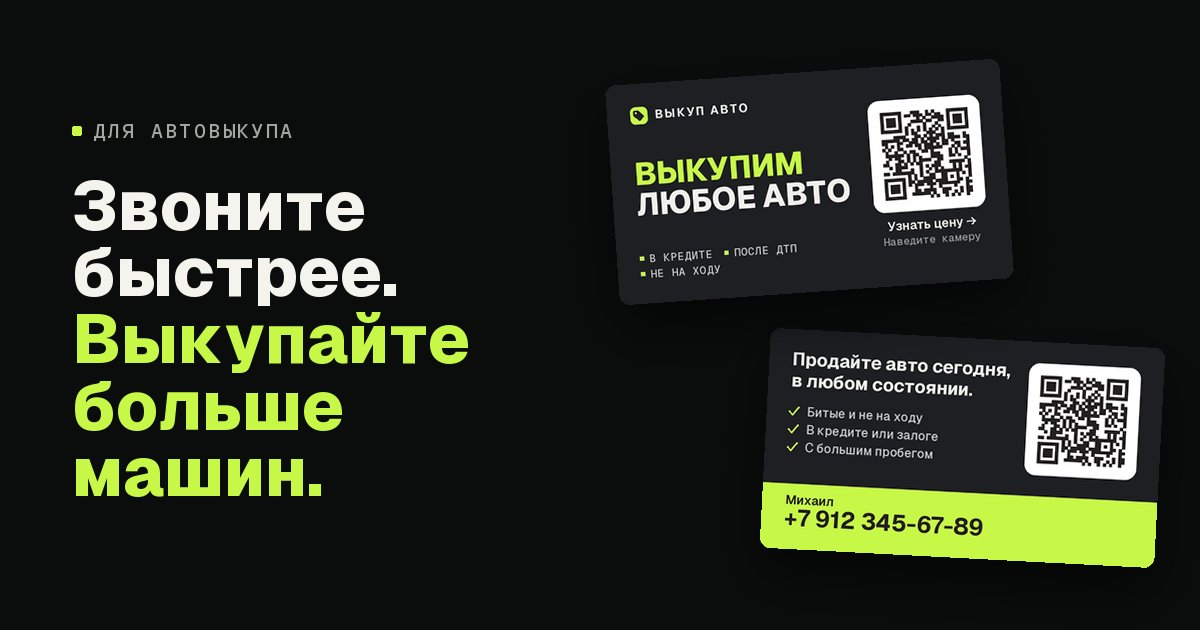
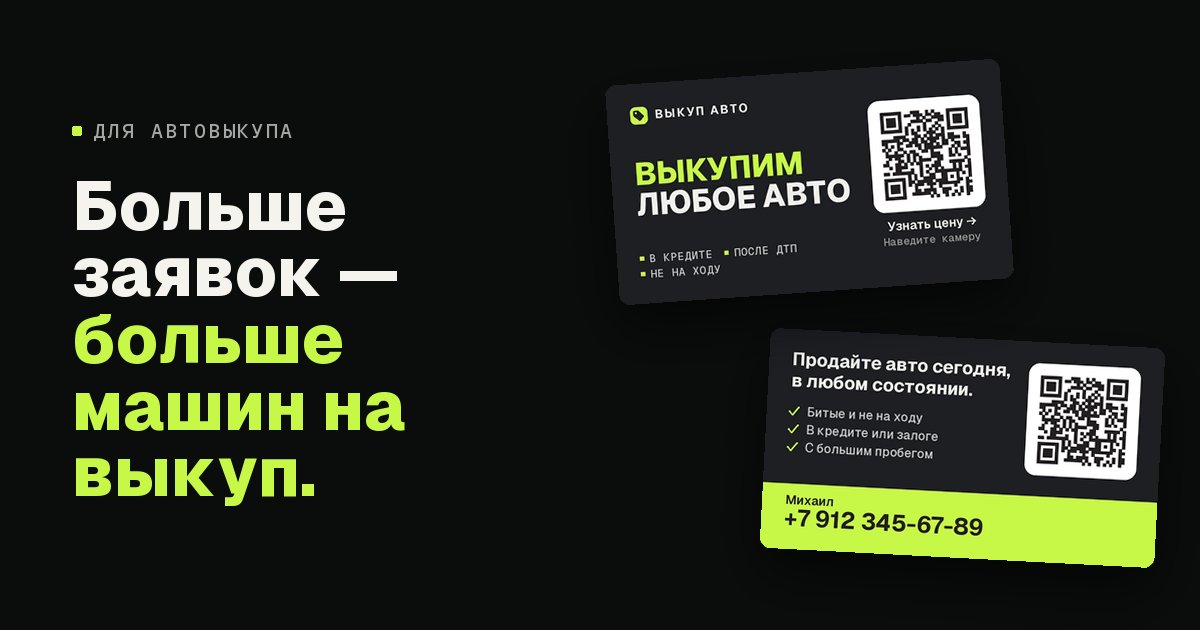
Update the demo

Changed region(s): [[0.0617, 0.3016, 0.4008, 0.6937], [0.0617, 0.7238, 0.2775, 0.8143]]

diff --git a/ru/index.html b/ru/index.html
@@ -5,14 +5,14 @@
   <meta name="viewport" content="width=device-width, initial-scale=1, viewport-fit=cover">
   <!-- Shared by link with one business at a time, never meant to be found. -->
   <meta name="robots" content="noindex">
-  <title>Выкуп авто · Звоните быстрее</title>
-  <meta name="description" content="Посмотрите, как это работает: продавец сканирует код или открывает ссылку и заполняет анкету, а вам приходит заявка с уведомлением на телефон.">
+  <title>Выкуп авто · Больше заявок</title>
+  <meta name="description" content="Посмотрите, как это работает: продавец сканирует код или жмёт на ссылку, заполняет анкету, а вам на телефон сразу приходит заявка.">
   <!-- The preview a messenger shows under a link. It reads the page as it is
        served, so a named link shows the headline, not the business's name. -->
   <meta property="og:type" content="website">
-  <meta property="og:title" content="Звоните быстрее. Выкупайте больше машин.">
-  <meta property="og:description" content="Посмотрите, как это работает: продавец сканирует код или открывает ссылку и заполняет анкету, а вам приходит заявка с уведомлением на телефон.">
-  <meta property="og:image" content="https://car-buyer-demo.github.io/assets/preview/ru.jpg?v=3e0f3e5339">
+  <meta property="og:title" content="Больше заявок — больше машин на выкуп.">
+  <meta property="og:description" content="Посмотрите, как это работает: продавец сканирует код или жмёт на ссылку, заполняет анкету, а вам на телефон сразу приходит заявка.">
+  <meta property="og:image" content="https://car-buyer-demo.github.io/assets/preview/ru.jpg?v=ffecbe87a3">
   <meta property="og:image:width" content="1200">
   <meta property="og:image:height" content="630">
   <meta name="twitter:card" content="summary_large_image">
@@ -132,8 +132,8 @@
     <div class="hero">
       <div>
         <div class="kicker">Для автовыкупа</div>
-        <h1>Звоните быстрее. <em>Выкупайте больше машин.</em></h1>
-        <p class="lead">Разместите QR-код на визитках, наклейках, щитах и у партнёров или добавьте ссылку в свою карточку на Яндекс Картах. Как только продавец оставит контакты, вам придёт уведомление, и вы позвоните, пока он ещё ищет покупателя.</p>
+        <h1>Больше заявок — <em>больше машин на выкуп.</em></h1>
+        <p class="lead">Продавец сканирует QR-код на визитке или наклейке и за пару минут заполняет анкету. Вам сразу приходит заявка с машиной, а следом фото, если продавец их добавил. Видно, стоит ли звонить.</p>
         <a class="button" href="#try">Попробовать ↓</a>
       </div>
       <div>
@@ -141,60 +141,60 @@
           <img class="front" id="card-front" src="../assets/card/ru/lime-front.webp" alt="Образец визитки, лицевая сторона: выкупим любое авто, с QR-кодом" width="1020" height="567">
           <img class="back" id="card-back" src="../assets/card/ru/lime-back.webp" alt="Образец визитки, обратная сторона: что выкупаем, снова QR-код и телефон" width="1020" height="567">
         </div>
-        <p class="caption">Образец визитки. На вашей будут ваше название, телефон и цвет.</p>
+        <p class="caption">Так выглядит визитка. На вашей будут ваше название, телефон и цвет.</p>
       </div>
     </div>
 
     <!-- The card is one place among many: each gets its own code or link. -->
     <section>
-      <div class="kicker">Один код — любое место</div>
-      <h2>Видно, какие места приводят продавцов.</h2>
+      <div class="kicker">Где ставить код</div>
+      <h2>Сразу видно, откуда идут продавцы.</h2>
       <ul class="places">
         <li class="place"><svg viewBox="0 0 24 24" aria-hidden="true"><rect x="3" y="8" width="18" height="12" rx="2"/><rect x="6" y="11" width="5" height="5" rx="1"/><path d="M14 12h4M14 15h3M2.5 6 15 3.5"/></svg>Визитка под дворником</li>
         <li class="place"><svg viewBox="0 0 24 24" aria-hidden="true"><path d="M2 16.5v-3.2l2.6-5.1c.3-.6.9-1 1.6-1h8.4c.6 0 1.1.3 1.5.7l3.4 4 2.4.6c.6.2 1.1.7 1.1 1.4v2.6M8.6 17h6.8"/><circle cx="6" cy="17" r="2.4"/><circle cx="18" cy="17" r="2.4"/><rect x="9.3" y="9.6" width="4" height="3.4" rx=".6"/></svg>Наклейка на вашей машине</li>
-        <li class="place"><svg viewBox="0 0 24 24" aria-hidden="true"><path d="M3 10.5 12 4l9 6.5V20H3zM7 20v-6.5h10V20M7 16.8h10"/></svg>Плакат у партнёра: СТО, эвакуатор</li>
+        <li class="place"><svg viewBox="0 0 24 24" aria-hidden="true"><path d="M3 10.5 12 4l9 6.5V20H3zM7 20v-6.5h10V20M7 16.8h10"/></svg>Плакат на СТО или у эвакуаторщика</li>
         <li class="place"><svg viewBox="0 0 24 24" aria-hidden="true"><rect x="3.5" y="3.5" width="17" height="9" rx="1.5"/><path d="M12 12.5V21M8.5 21h7M7 7h6M7 9.5h9"/></svg>Щит или баннер</li>
         <li class="place"><svg viewBox="0 0 24 24" aria-hidden="true"><path d="M12 21s-6.5-5.6-6.5-11a6.5 6.5 0 0 1 13 0c0 5.4-6.5 11-6.5 11z"/><circle cx="12" cy="10" r="2.3"/></svg>Ссылка в карточке на Яндекс Картах</li>
         <li class="place"><svg viewBox="0 0 24 24" aria-hidden="true"><path d="M4 4.5h16a1 1 0 0 1 1 1V16a1 1 0 0 1-1 1h-9l-4.5 3.5V17H4a1 1 0 0 1-1-1V5.5a1 1 0 0 1 1-1zM7.5 9.5h9M7.5 12.5h5.5"/></svg>Ссылка в соцсетях и местных группах</li>
       </ul>
-      <p class="sub">У каждого места свой код или ссылка, и приложение показывает, какое место приносит машины.</p>
+      <p class="sub">У каждого места свой код или ссылка, так что в приложении видно, откуда реально идут машины.</p>
     </section>
 
     <section id="try">
       <div class="kicker">Попробуйте сами</div>
-      <h2>Заполните анкету и посмотрите, как придёт заявка.</h2>
-      <p class="sub">На первом экране анкета, которую видит продавец. Ответьте на вопросы так, как ответил бы он. Как только вы сохраните контакты, заявка появится во втором окне, в вашем приложении, и всплывёт уведомление. Откройте заявку, смените статус, добавьте заметку.</p>
+      <h2>Заполните анкету за продавца и посмотрите, как придёт заявка.</h2>
+      <p class="sub">На первом экране анкета, как её видит продавец. Ответьте за него. Дойдёте до имени и телефона, сохраните их, и заявка придёт на второй экран, в ваше приложение, вместе с уведомлением. Откройте её, смените статус, добавьте заметку.</p>
       <div class="flow">
         <figure class="phone">
           <div class="screen"><iframe data-src="../demo/ru/index.html?src=card" title="Анкета продавца, рабочее демо"></iframe></div>
-          <figcaption><b>Продавец</b>Отсканировал ваш код. Без приложений и регистрации.</figcaption>
+          <figcaption><b>Продавец</b>Отсканировал код. Ничего не скачивает и нигде не регистрируется.</figcaption>
         </figure>
         <figure class="phone" id="buyer">
           <div class="screen"><iframe data-src="../demo/ru/app/index.html" title="Ваше приложение, рабочее демо"></iframe></div>
-          <figcaption><b>Ваше приложение</b>Уведомление через несколько секунд, звонок в одно касание.</figcaption>
+          <figcaption><b>Ваше приложение</b>Заявка приходит за несколько секунд, звонок в одно нажатие.</figcaption>
         </figure>
       </div>
-      <p class="note">Заявки здесь выдуманные, фото машин созданы ИИ. Всё, что вы введёте, остаётся в вашем браузере.<br><button class="again" id="restart" type="button">Начать заново</button></p>
+      <p class="note">Заявки здесь выдуманные, фото машин сделал ИИ. Всё, что вы введёте, никуда не уходит из вашего браузера.<br><button class="again" id="restart" type="button">Начать заново</button></p>
     </section>
 
     <section>
       <div class="kicker">Что вы получаете</div>
       <h2>От QR-кода до звонка продавцу.</h2>
       <div class="points">
-        <div class="point"><span class="num">01</span><h3>Ваши QR-коды и ссылки</h3><p>Макет визитки в ваших цветах, готовый для любой типографии, и свой код или ссылка для каждого другого места: видно, какие места приводят машины.</p></div>
-        <div class="point"><span class="num">02</span><h3>Анкета, удобная с телефона</h3><p>Короткие шаги, без приложений и регистрации, фото прямо с телефона. Если продавца отвлекли, он продолжит с того же места: ответы неделю хранятся в его браузере.</p></div>
-        <div class="point"><span class="num">03</span><h3>Уведомление через несколько секунд</h3><p>В уведомлении машина, а ещё цена и число фото, если продавец их указал. Имя и номер продавца на экране блокировки не видны.</p></div>
-        <div class="point"><span class="num">04</span><h3>Все заявки в одном приложении</h3><p>Статусы «Новая», «В работе», «Выкуплена», «Отказ». Заметки, звонок или сообщение продавцу в одно касание и статистика по источникам заявок.</p></div>
+        <div class="point"><span class="num">01</span><h3>Ваши QR-коды и ссылки</h3><p>Макет визитки в ваших цветах: отдаёте в любую типографию и печатаете. На каждое другое место свой код или ссылка, так что видно, откуда идут машины.</p></div>
+        <div class="point"><span class="num">02</span><h3>Анкету легко заполнить с телефона</h3><p>Короткие шаги, ничего не надо скачивать и регистрироваться, фото прямо с телефона. Отвлекли продавца? Продолжит с того же места: ответы неделю лежат у него в браузере.</p></div>
+        <div class="point"><span class="num">03</span><h3>Заявка за несколько секунд</h3><p>В уведомлении машина, а ещё цена и сколько фото, если продавец их добавил. Имя и телефон продавца на заблокированном экране не видно.</p></div>
+        <div class="point"><span class="num">04</span><h3>Все заявки в одном приложении</h3><p>Статусы «Новая», «В работе», «Выкуплена», «Отказ». Заметки, звонок или сообщение продавцу в одно нажатие и статистика, откуда сколько заявок.</p></div>
       </div>
     </section>
 
     <section>
       <div class="kicker">Всё ваше</div>
       <h2>Ваше название, ваши цвета, ваш адрес.</h2>
-      <p class="sub">На анкете, в приложении и на визитках — название, цвет и логотип вашей компании, а адрес сайта ваш собственный. Система работает на вашем аккаунте, и заявки принадлежат вам. Личные данные продавцов удаляются автоматически через 90 дней после закрытия заявки.</p>
+      <p class="sub">В анкете, в приложении и на визитках — ваше название, цвет и логотип, адрес сайта тоже ваш. Всё стоит на вашем сервере, заявки ваши. Имя, телефон, почта и фото продавца сами удаляются через 90 дней после закрытия заявки.</p>
     </section>
 
-    <footer>Остались вопросы? Задайте их тому, кто прислал вам эту ссылку.</footer>
+    <footer>Есть вопросы? Спросите того, кто прислал вам эту ссылку.</footer>
   </div>
   <button class="toast" id="toast" type="button">Пришла новая заявка ↓</button>
 
